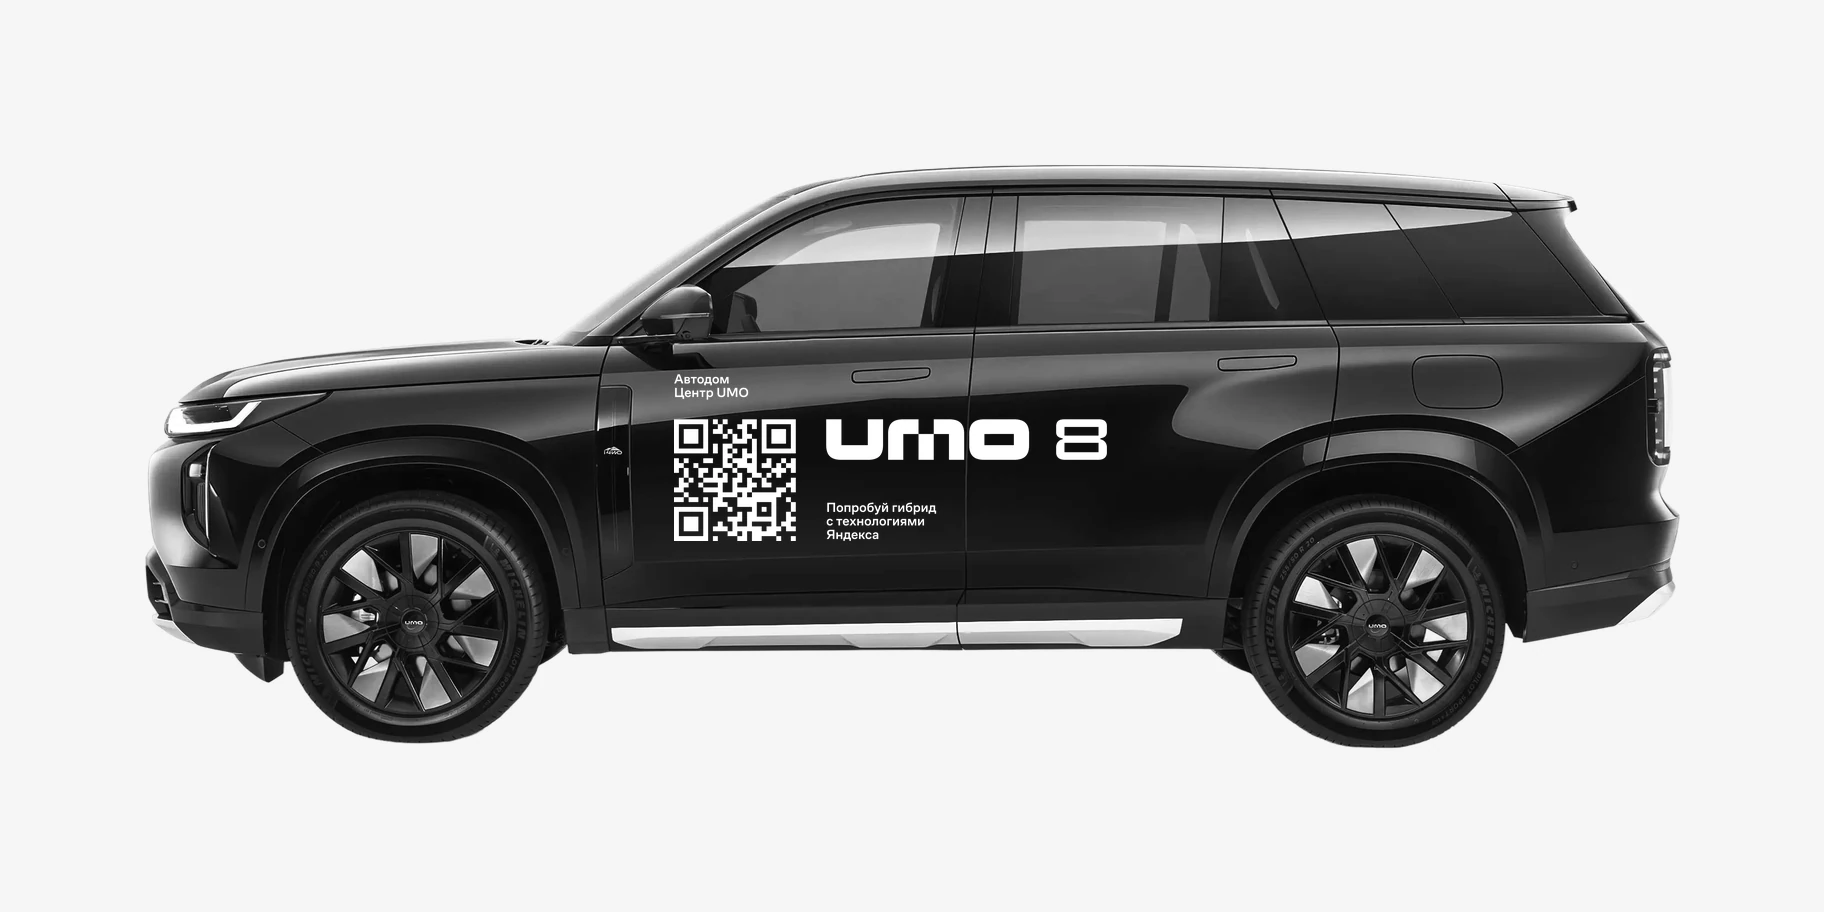
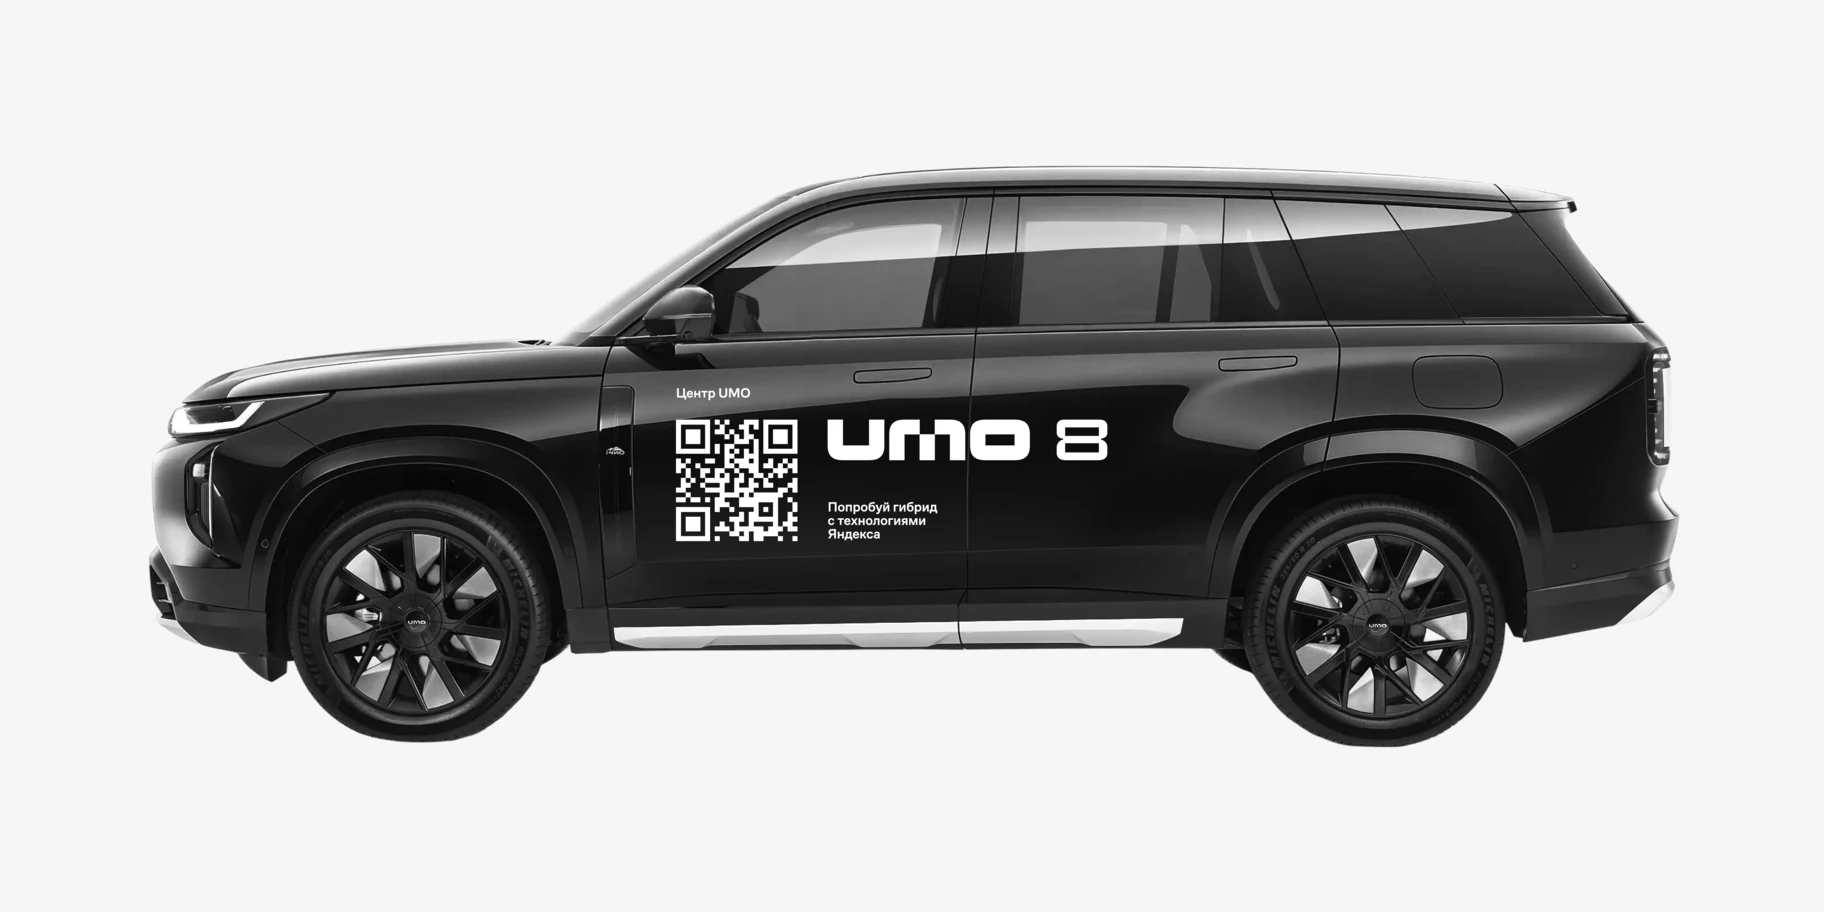
Livery: the dealer field starts as «Центр UMO», no «Автодом»; the guide's picture re-rendered by a script
scripts/render-livery-guide.mjs builds it with the generator's own code, framed
as the old picture was.

diff --git a/src/Livery.tsx b/src/Livery.tsx
@@ -10,7 +10,7 @@ import { loadFont, buildSheet, specMarks, toD, mm, type Sheet, type Line } from 
 // dealer name or tagline that would run onto them shows up before the files go to the wrap shop.
 
 const DEFAULT_URL = 'https://umo.auto/'
-const DEFAULT_TOP = 'Автодом\nЦентр UMO'
+const DEFAULT_TOP = 'Центр UMO'
 // The tagline offered by default names what each model is
 const DEFAULT_BOTTOM: Record<Model, string> = {
   umo8: 'Попробуй гибрид с технологиями Яндекса',

diff --git a/AGENTS.md b/AGENTS.md
@@ -85,7 +85,7 @@ Cut files are vector only: every shape is a filled outline (text converted with 
 
 UMO 5 (`UMO5` in `layout.ts`; Figma: UMO | Evrone, node 3532:454 for the sides with the QR and the rear window, 4934:3338 for the sides without it) is laid out the same way with its own numbers, and the model switch picks between the two (`LIVERIES`). The sides are 1310×500: a 830 lettering column (UMO 600, 90, the 5 140 — the 5 of the number plate, `FIVE` in `logo.ts`), 120, the 360 QR column; text 40 mm on 42 mm lines, the dealer up to 550 and two lines (as without the QR, so a name that fits fits both ways), the tagline up to 420 and three, which wraps the default as Figma does and keeps it clear of the door seam. Without the QR the side is laid out anew like UMO 8's: the lettering 160 (1086,67 wide), the dealer name 40 mm up to 550, in two lines or one centred on them (`centred` on a text block; node 4934:3325), the tagline 40 mm in three lines up to 420 (node 4934:3341) or, with «Увеличить», 60 mm in two up to 850, as on UMO 8. The rear window is 650×200: QR 200, 50, a 400 column with the lettering 60 high and 30 mm text, stacked like UMO 8's. The car is white, so the side decals are black in the preview and the spec (`decal` on a surface; the cut file's colour is the same for both models); on the glass they stay white. The pictures come from the Figma frames at 0.5 px/mm: `umo5-side.webp` is the right side (4718×1680 mm, transparent around the car, the sheet's top at 682), mirrored for the left; `umo5-rear.webp` (2080×1980 mm) is the frame with the decal painted out of the darkened window, as only that frame has the window dark. The seam and front door handle in `right5Obstacles` were measured on that photo. Each model has its own default tagline («Попробуй гибрид…» / «Попробуй электрокар…»), and the bottom text fields (the sides' and the rear window's own) are comboboxes (`ComboField`) offering it and the same without «Попробуй» (`TAGLINES` in `Livery.tsx`); switching models swaps either suggestion for the other model's, and leaves the dealer's own text alone.
 
-The guide's Ливрея section (Носители) shows `src/assets/guide/livery-umo8.webp`: the left side with the generator's default dealer («Автодом» over «Центр UMO») and tagline and no guides, rendered from the generator's cut file onto the spec photo (1824×912, the car 84% of the width). Regenerate it if the layout or defaults change.
+The dealer field starts as «Центр UMO» (`DEFAULT_TOP`; it was «Автодом» over «Центр UMO»), for the dealer to add the name. The guide's Ливрея section (Носители) shows `src/assets/guide/livery-umo8.webp`: the left side with the generator's default texts and QR link and no guides, on the side photo (1824×912 on #f6f6f6, the car 84% of the width). `node scripts/render-livery-guide.mjs` renders it with the generator's own code (loaded through Vite; needs ImageMagick and cwebp): run it when the layout or defaults change.
 
 ## Plate frame (`/plate-frame`)
 
